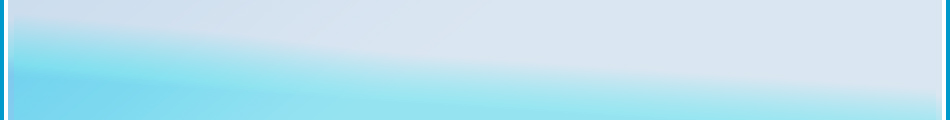
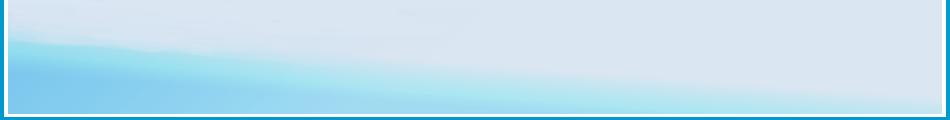
Updating background image to be smoother with the separation between content and footer (fixes OE-5)

Changed region(s): [[0.0, 0.95, 1.0, 1.0], [0.0, 0.2, 0.2442, 0.45]]

diff --git a/css/main.css b/css/main.css
@@ -36,8 +36,8 @@ a {
     border-top: 0px;
     border-bottom: 0px;
     margin: 0 4px;
-    background: url('/images/background_content.png') no-repeat #ccdded;
-    min-height: 316px;
+    background: url('/images/background_content.png') top left no-repeat #dae6f2;
+    min-height: 336px;
     padding-top: 40px;
     padding-left: 20px;
     padding-right: 20px;
@@ -52,7 +52,7 @@ a {
 {
     font-size: 0.8em;
     text-align: center;
-    background: url('/images/background_footer.png');
+    background: url('/images/background_footer.png') top left no-repeat;
     min-height: 110px;
     padding-top: 10px;
 }
